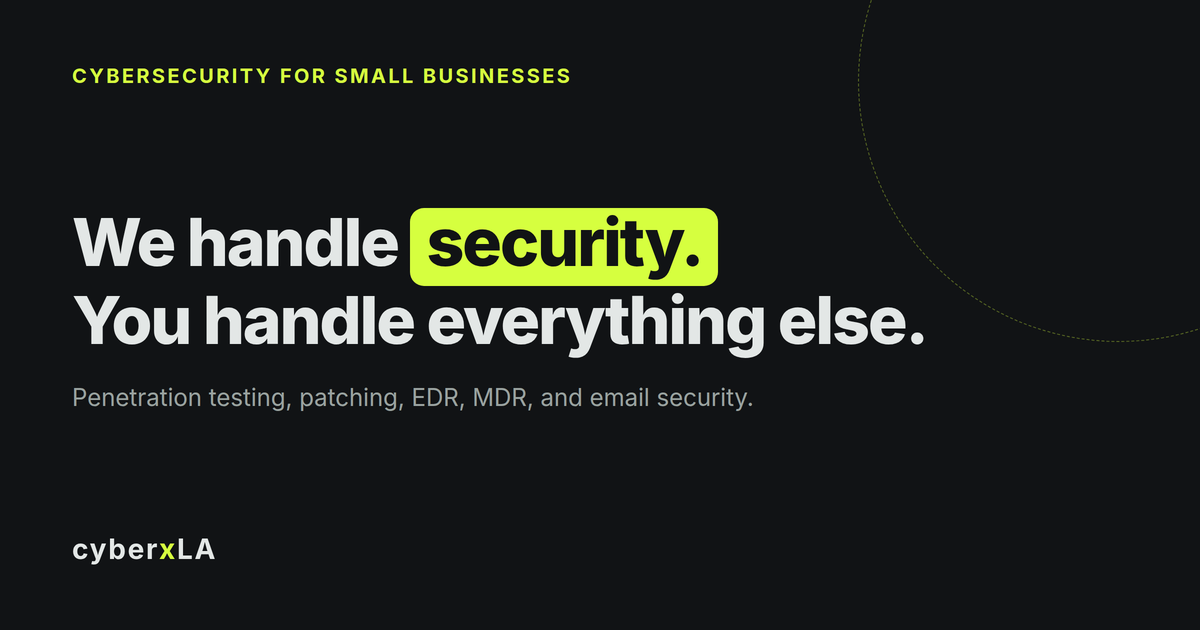
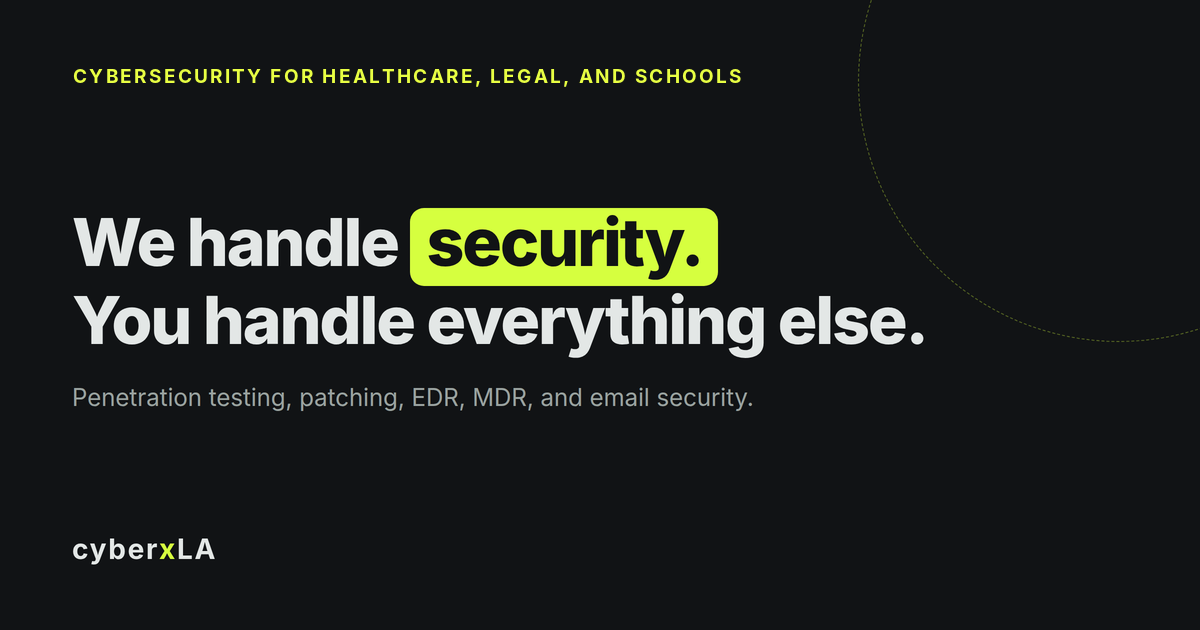
Replace small business wording with enterprise grade, healthcare, legal, and schools positioning
Claude-Session: https://claude.ai/code/session_01TML6K4U8go4rDVPnZA6ETJ

Changed region(s): [[0.0617, 0.0905, 0.6167, 0.1508]]

diff --git a/index.html b/index.html
@@ -25,8 +25,8 @@
     }
   });
 </script>
-<title>Small Business Cybersecurity in Los Angeles | cyberXLA</title>
-<meta name="description" content="Small business cybersecurity in Los Angeles: 24/7 EDR and MDR, patching, penetration testing, ransomware protection, email security, and ADA website fixes.">
+<title>Enterprise Grade Cybersecurity in Los Angeles | cyberXLA</title>
+<meta name="description" content="Enterprise grade cybersecurity for healthcare, legal, and schools in Los Angeles: 24/7 EDR and MDR, patching, penetration testing, ransomware protection, email security, and ADA website fixes.">
 <meta name="robots" content="index, follow, max-image-preview:large, max-snippet:-1">
 <link rel="canonical" href="https://cyberx.la/">
 <!-- Google Search Console verification: paste the meta tag from Search Console on the next line -->
@@ -39,20 +39,20 @@
 
 <meta property="og:type" content="website">
 <meta property="og:site_name" content="cyberXLA">
-<meta property="og:title" content="Small Business Cybersecurity in Los Angeles | cyberXLA">
-<meta property="og:description" content="Small business cybersecurity in Los Angeles: 24/7 EDR and MDR, patching, penetration testing, ransomware protection, email security, and ADA website fixes.">
+<meta property="og:title" content="Enterprise Grade Cybersecurity in Los Angeles | cyberXLA">
+<meta property="og:description" content="Enterprise grade cybersecurity for healthcare, legal, and schools in Los Angeles: 24/7 EDR and MDR, patching, penetration testing, ransomware protection, email security, and ADA website fixes.">
 <meta property="og:url" content="https://cyberx.la/">
 <meta property="og:image" content="https://cyberx.la/og-image.png">
 <meta property="og:image:width" content="1200">
 <meta property="og:image:height" content="630">
-<meta property="og:image:alt" content="cyberXLA: cybersecurity for small businesses in Los Angeles">
+<meta property="og:image:alt" content="cyberXLA: enterprise grade cybersecurity for healthcare, legal, and schools in Los Angeles">
 <meta property="og:locale" content="en_US">
 
 <meta name="twitter:card" content="summary_large_image">
-<meta name="twitter:title" content="Small Business Cybersecurity in Los Angeles | cyberXLA">
-<meta name="twitter:description" content="Small business cybersecurity in Los Angeles: 24/7 EDR and MDR, patching, penetration testing, ransomware protection, email security, and ADA website fixes.">
+<meta name="twitter:title" content="Enterprise Grade Cybersecurity in Los Angeles | cyberXLA">
+<meta name="twitter:description" content="Enterprise grade cybersecurity for healthcare, legal, and schools in Los Angeles: 24/7 EDR and MDR, patching, penetration testing, ransomware protection, email security, and ADA website fixes.">
 <meta name="twitter:image" content="https://cyberx.la/og-image.png">
-<meta name="twitter:image:alt" content="cyberXLA: cybersecurity for small businesses in Los Angeles">
+<meta name="twitter:image:alt" content="cyberXLA: enterprise grade cybersecurity for healthcare, legal, and schools in Los Angeles">
 
 <script type="application/ld+json">
 {
@@ -63,7 +63,7 @@
       "@id": "https://cyberx.la/#business",
       "name": "cyberXLA",
       "alternateName": "CyberXLA",
-      "description": "Cybersecurity for small businesses, including penetration testing, vulnerability assessments, EDR, MDR, ransomware protection, domain monitoring, patching, backup, cyber insurance readiness, and website accessibility (ADA and WCAG) compliance.",
+      "description": "Enterprise grade cybersecurity for healthcare, legal, and schools, including penetration testing, vulnerability assessments, EDR, MDR, ransomware protection, domain monitoring, patching, backup, cyber insurance readiness, and website accessibility (ADA and WCAG) compliance.",
       "url": "https://cyberx.la/",
       "logo": "https://cyberx.la/logo.png",
       "image": "https://cyberx.la/og-image.png",
@@ -118,7 +118,7 @@
       "@type": "WebPage",
       "@id": "https://cyberx.la/#webpage",
       "url": "https://cyberx.la/",
-      "name": "Small Business Cybersecurity in Los Angeles | cyberXLA",
+      "name": "Enterprise Grade Cybersecurity in Los Angeles | cyberXLA",
       "inLanguage": "en-US",
       "isPartOf": { "@id": "https://cyberx.la/#website" },
       "about": { "@id": "https://cyberx.la/#business" },
@@ -671,7 +671,7 @@ footer .credit:hover { color: var(--lime); }
   <div class="wrap">
     <div class="hero-top">
       <h1>
-        <span class="kicker mono fade" style="--d:0; color: var(--lime);">Cybersecurity for small businesses</span>
+        <span class="kicker mono fade" style="--d:0; color: var(--lime);">Cybersecurity for healthcare, legal, and schools</span>
         <span class="l"><span class="w" style="--i:0"><span>We</span></span> <span class="w" style="--i:1"><span>handle</span></span> <span class="w" style="--i:2"><span><span class="chip">security.</span></span></span></span>
         <span class="l"><span class="w" style="--i:3"><span>You</span></span> <span class="w" style="--i:4"><span>handle</span></span></span>
         <span class="l"><span class="w" style="--i:5"><span>everything</span></span> <span class="w" style="--i:6"><span>else.</span></span></span>
@@ -772,7 +772,7 @@ footer .credit:hover { color: var(--lime); }
     <div class="sec-head">
       <p class="mono reveal mute-paper">03 Web accessibility</p>
       <h2 class="reveal" style="--d:100ms">Web accessibility and <span class="chip">compliance.</span></h2>
-      <p class="reveal mute-paper" style="--d:200ms">ADA website lawsuits keep climbing, and small businesses are the easiest target. We find the problems on your existing site and fix them in the code, so people using screen readers and keyboards can actually use it.</p>
+      <p class="reveal mute-paper" style="--d:200ms">ADA website lawsuits keep climbing, and organizations without a dedicated security team are the easiest target. We find the problems on your existing site and fix them in the code, so people using screen readers and keyboards can actually use it.</p>
     </div>
     <div class="pk" data-pager="Accessibility packages">
       <article class="card reveal" style="--d:0ms">

diff --git a/terms/index.html b/terms/index.html
@@ -40,7 +40,7 @@
 <meta property="og:image" content="https://cyberx.la/og-image.png">
 <meta property="og:image:width" content="1200">
 <meta property="og:image:height" content="630">
-<meta property="og:image:alt" content="cyberXLA: cybersecurity for small businesses in Los Angeles">
+<meta property="og:image:alt" content="cyberXLA: enterprise grade cybersecurity for healthcare, legal, and schools in Los Angeles">
 <meta property="og:locale" content="en_US">
 <meta name="twitter:card" content="summary_large_image">
 <script type="application/ld+json">
@@ -130,7 +130,7 @@ header, footer { --focus: var(--lime); }
     <p>These Terms and Conditions govern your use of the cyberXLA website. By using this site, you agree to these terms. If you do not agree, please do not use this website.</p>
 
     <h2><span class="n">1</span> Who we are</h2>
-    <p>cyberXLA provides managed IT and cybersecurity services, including patching, endpoint detection and response, managed detection and response, backup, email security, and user onboarding and offboarding, to small businesses in the Los Angeles area.</p>
+    <p>cyberXLA provides managed IT and cybersecurity services, including patching, endpoint detection and response, managed detection and response, backup, email security, and user onboarding and offboarding, to healthcare, legal, education, and other organizations in the Los Angeles area.</p>
 
     <h2><span class="n">2</span> Use of this website</h2>
     <p>This website is provided for general information about cyberXLA and its services. You agree to use this site only for lawful purposes and not to interfere with its normal operation, attempt to gain unauthorized access to it, or use it to transmit harmful code.</p>

diff --git a/build-your-quote/index.html b/build-your-quote/index.html
@@ -41,13 +41,13 @@
 <meta property="og:image" content="https://cyberx.la/og-image.png">
 <meta property="og:image:width" content="1200">
 <meta property="og:image:height" content="630">
-<meta property="og:image:alt" content="cyberXLA: cybersecurity for small businesses in Los Angeles">
+<meta property="og:image:alt" content="cyberXLA: enterprise grade cybersecurity for healthcare, legal, and schools in Los Angeles">
 <meta property="og:locale" content="en_US">
 <meta name="twitter:card" content="summary_large_image">
 <meta name="twitter:title" content="Cybersecurity Services and Pricing in Los Angeles | cyberXLA">
 <meta name="twitter:description" content="Pick the services you need and see your price add up as you go.">
 <meta name="twitter:image" content="https://cyberx.la/og-image.png">
-<meta name="twitter:image:alt" content="cyberXLA: cybersecurity for small businesses in Los Angeles">
+<meta name="twitter:image:alt" content="cyberXLA: enterprise grade cybersecurity for healthcare, legal, and schools in Los Angeles">
 <script type="application/ld+json">
 {
   "@context": "https://schema.org",

diff --git a/privacy/index.html b/privacy/index.html
@@ -40,7 +40,7 @@
 <meta property="og:image" content="https://cyberx.la/og-image.png">
 <meta property="og:image:width" content="1200">
 <meta property="og:image:height" content="630">
-<meta property="og:image:alt" content="cyberXLA: cybersecurity for small businesses in Los Angeles">
+<meta property="og:image:alt" content="cyberXLA: enterprise grade cybersecurity for healthcare, legal, and schools in Los Angeles">
 <meta property="og:locale" content="en_US">
 <meta name="twitter:card" content="summary_large_image">
 <script type="application/ld+json">

diff --git a/404.html b/404.html
@@ -26,7 +26,7 @@
   });
 </script>
 <title>Page Not Found | cyberXLA</title>
-<meta name="description" content="This page doesn't exist. Head back to cyberXLA for small business cybersecurity in Los Angeles.">
+<meta name="description" content="This page doesn't exist. Head back to cyberXLA for enterprise grade cybersecurity in Los Angeles.">
 <meta name="robots" content="noindex, follow">
 <meta name="theme-color" content="#111315">
 <link rel="icon" href="/favicon.ico" sizes="48x48">
